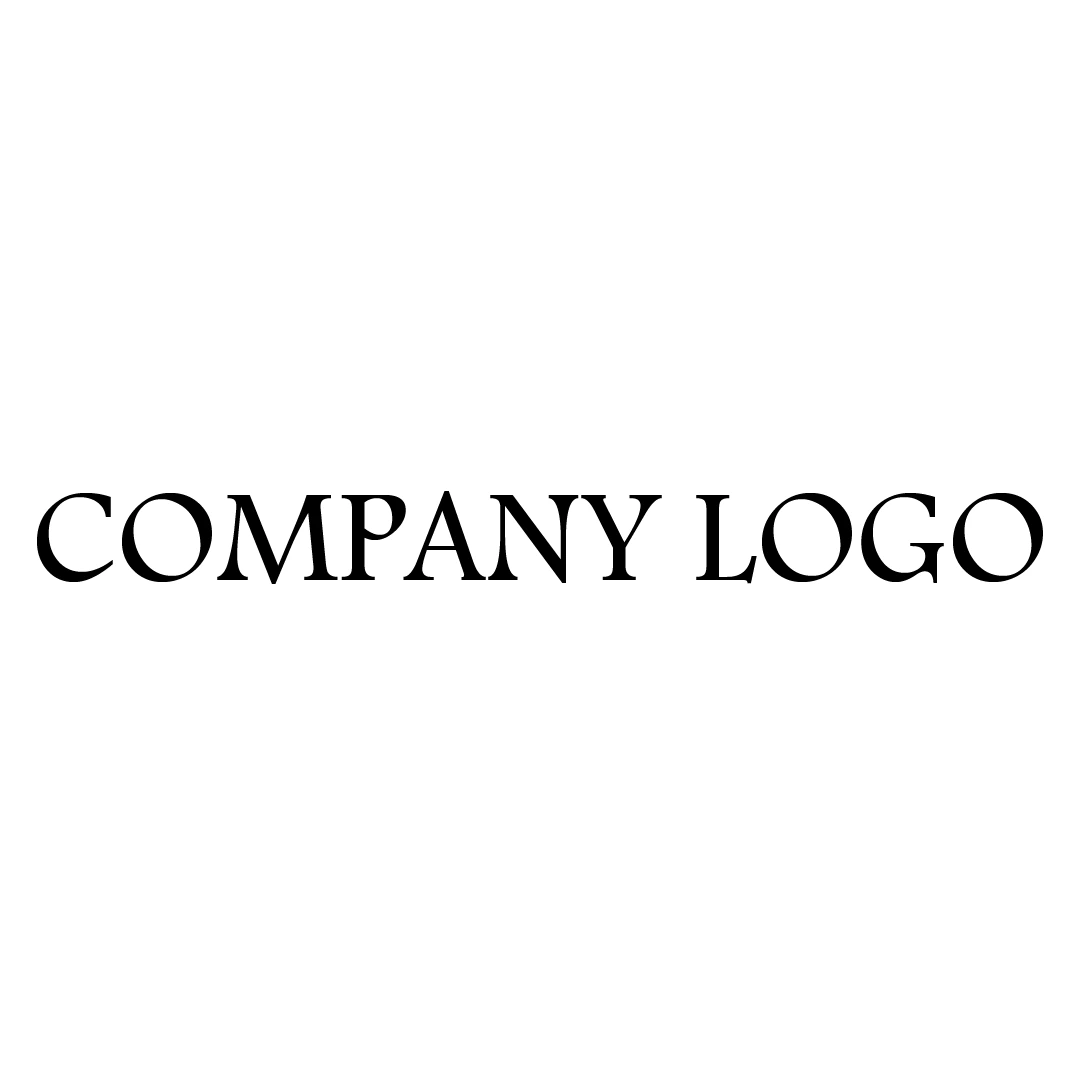
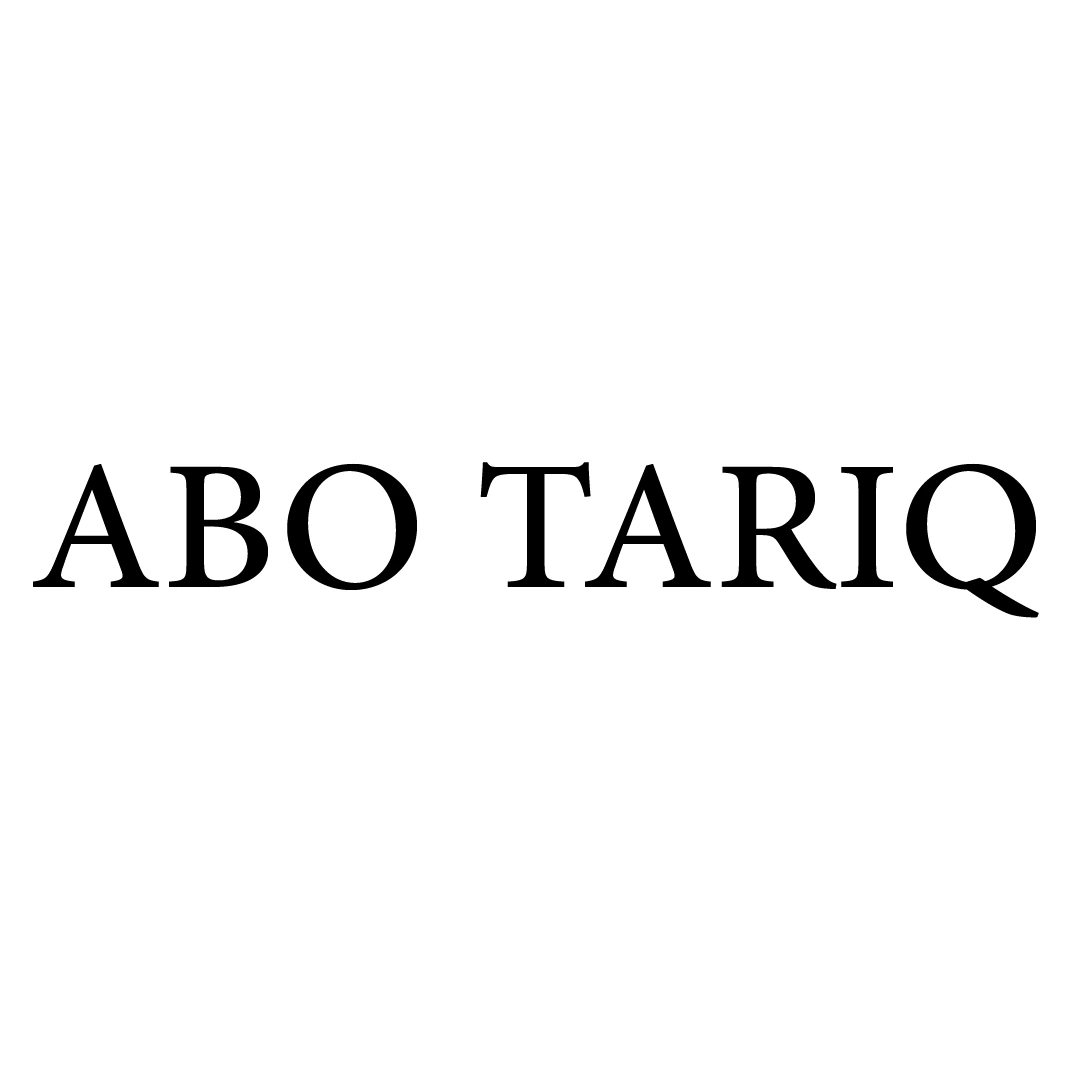
.

Changed region(s): [[0.0306, 0.4278, 0.9778, 0.5806]]

diff --git a/index.html b/index.html
@@ -4,7 +4,7 @@
 <head>
     <meta charset="UTF-8">
     <meta name="viewport" content="width=device-width, initial-scale=1.0">
-    <title>رحلات وسياحة</title>
+    <title>ابو طارق</title>
     <link rel="stylesheet" href="create-custom-offer.css">
     <link rel="stylesheet" href="styles.css">
     <link rel="stylesheet" href="https://cdnjs.cloudflare.com/ajax/libs/font-awesome/6.4.0/css/all.min.css">
@@ -19,7 +19,7 @@
     <header>
         <div class="logo-container">
             <img src="" alt="شعار الشركة" class="logo-img">
-            <div class="logo-text">اسم الشركة</div>
+            <div class="logo-text">ابو طارق</div>
         </div>
         <div class="header-icons">
             <i class="fas fa-heart" id="favorites-icon"><span class="favorites-count">0</span></i>
@@ -383,8 +383,8 @@
                 <h3>اتصل بنا</h3>
                 <ul>
                     <li style="direction: ltr;">+966 569446280 <i class="fas fa-phone"></i></li>
-                    <li><i class="fas fa-envelope"></i> companyName@gmail.com</li>
-                    <li><i class="fas fa-map-marker-alt"></i> موقع الشركة</li>
+                    <li><i class="fas fa-envelope"></i> abo.tariq@gmail.com</li>
+                    <li><i class="fas fa-map-marker-alt"></i> شركة اونلاين للسفر والسياحة</li>
                 </ul>
             </div>
             <div class="footer-section">
@@ -398,7 +398,7 @@
             </div>
         </div>
         <div class="footer-bottom">
-            <p>اسم الشركة - جميع الحقوق محفوظة 2025 &copy;</p>
+            <p>ابو طارق - جميع الحقوق محفوظة 2025 &copy;</p>
         </div>
     </footer>
 

diff --git a/script.js b/script.js
@@ -997,3 +997,62 @@ function showSuccessNotification() {
 
 
 fetchReviews();
+
+
+
+
+
+
+
+
+
+
+
+
+
+/* Insert new click data in the Supabase */
+async function insertNewClick(website) {
+
+    // Step 1: Get current month name
+    const monthNames = [
+        "january", "february", "march", "april",
+        "may", "june", "july", "august",
+        "september", "october", "november", "december"
+    ];
+    const currentMonth = monthNames[new Date().getMonth()];
+
+    // Step 2: Fetch the current row for the website
+    const { data, error } = await supabase
+        .from("click_counter")
+        .select("*")
+        .eq("website", website)
+        .single();
+
+    if (error) {
+        console.error("Error fetching data:", error.message);
+        return;
+    }
+
+    // Step 3: Parse the current value (e.g., "Clicks 4")
+    let rawValue = data[currentMonth];
+    let currentCount = 0;
+
+    if (rawValue && typeof rawValue === "string" && rawValue.startsWith("Clicks ")) {
+        currentCount = parseInt(rawValue.replace("Clicks ", ""), 10) || 0;
+    }
+
+    // Step 4: Increment the value
+    let newCount = currentCount + 1;
+    let newValue = `Clicks ${newCount}`;
+
+    // Step 5: Update the table
+    const { error: updateError } = await supabase
+        .from("click_counter")
+        .update({ [currentMonth]: newValue })
+        .eq("website", website);
+
+    if (updateError) {
+        console.error("Error updating value:", updateError.message);
+        return;
+    }
+}

diff --git a/create-custom-offer.js b/create-custom-offer.js
@@ -104,7 +104,7 @@ document.getElementById("offerForm").addEventListener("submit", function (e) {
 
 
     /* insert a new click count in the Supbase database */
-    insertNewClick('sample-table');
+    insertNewClick('your-travel-company.com');
 
 
 
